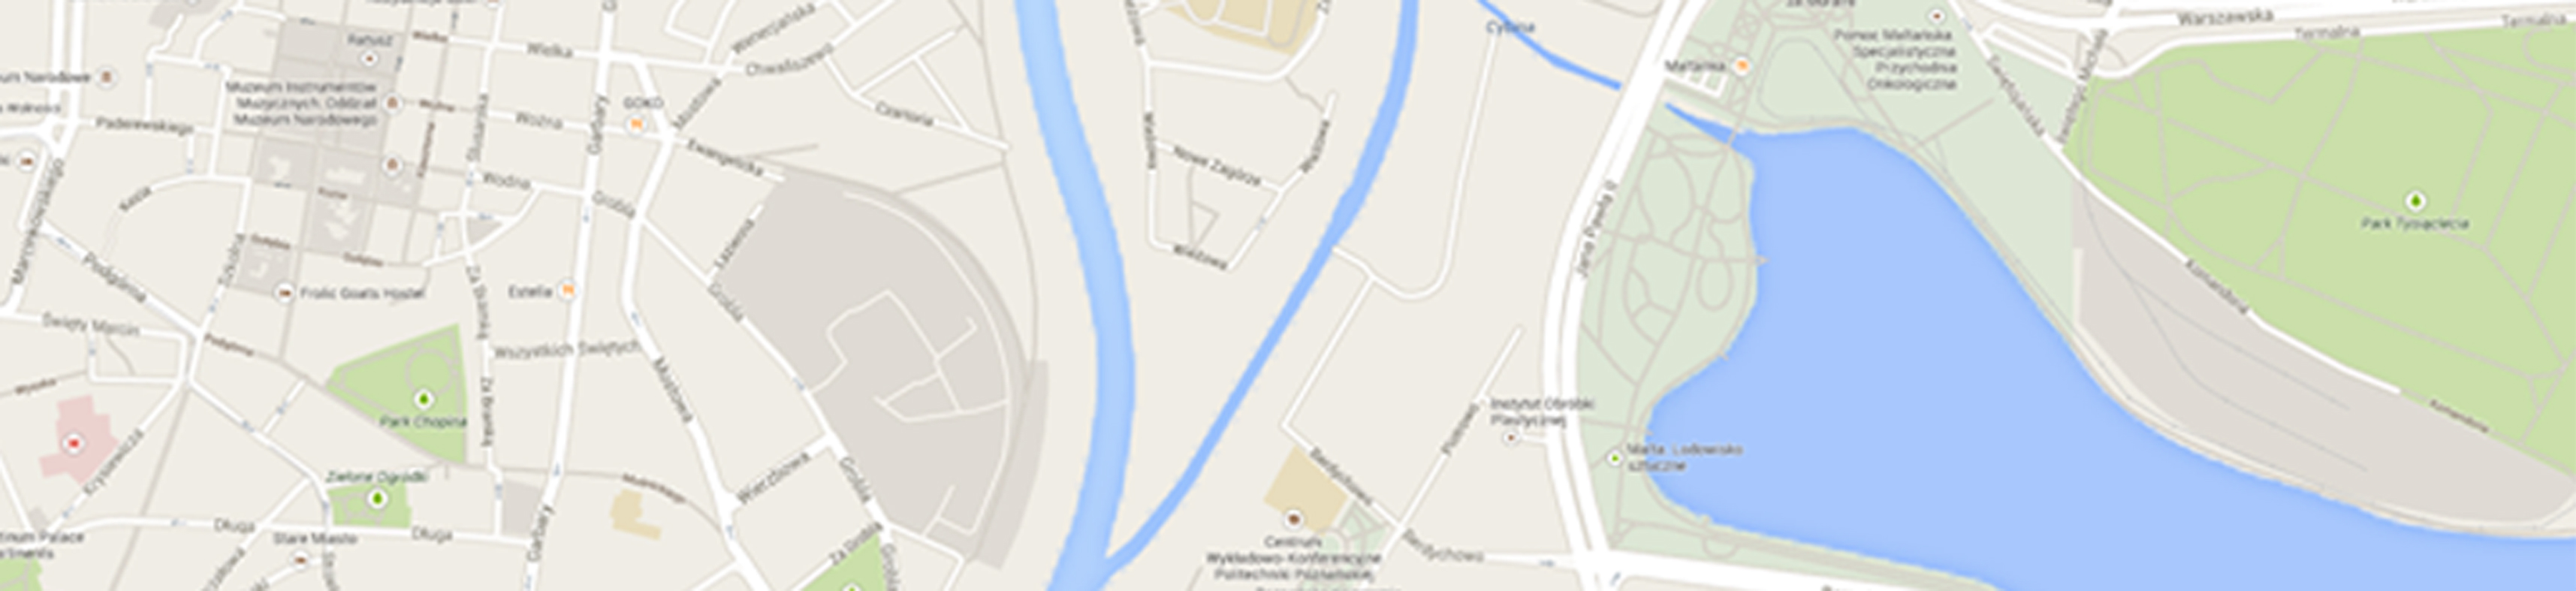
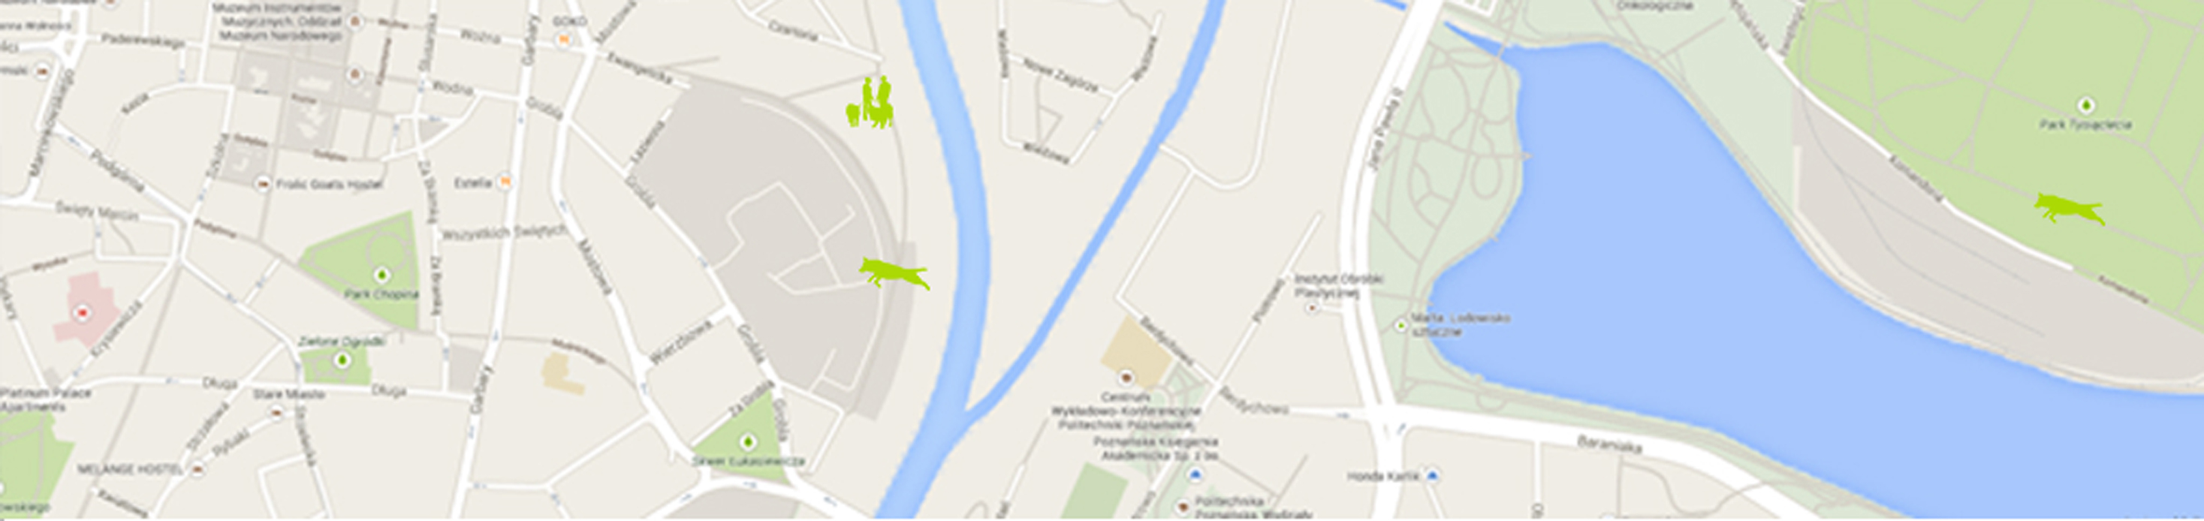
dog model add

diff --git a/app/assets/stylesheets/devise/registrations/new.css b/app/assets/stylesheets/devise/registrations/new.css
@@ -3,7 +3,7 @@ div {
 	color: white;
 }
 div.registration-form {
-	height: 330px;
+	height: 360px;
 	width: 500px;
 	background-color: #ACD907;
 	margin: auto;
@@ -93,4 +93,4 @@ div.registration-form {
 	background-color:#dfdfdf;
 }.form-button:active {
 	position:relative;
-	top:1px;
+	top:1px;}

diff --git a/app/assets/stylesheets/devise/sessions/new.css b/app/assets/stylesheets/devise/sessions/new.css
@@ -3,7 +3,7 @@ div {
 	color: white;
 }
 div.registration-form {
-	height: 330px;
+	height: 360px;
 	width: 500px;
 	background-color: #ACD907;
 	margin: auto;

diff --git a/app/assets/stylesheets/devise/new.css b/app/assets/stylesheets/devise/new.css
@@ -1,6 +1,6 @@
 div.registration-form {
-	height: 500px;
-	width: 400px;
+	height: 360px;
+	width: 450px;
 	background-color: green;
 }
 

diff --git a/db/schema.rb b/db/schema.rb
@@ -11,7 +11,17 @@
 #
 # It's strongly recommended that you check this file into your version control system.
 
-ActiveRecord::Schema.define(version: 20140324090055) do
+ActiveRecord::Schema.define(version: 20140325092657) do
+
+  create_table "dogs", force: true do |t|
+    t.string   "name"
+    t.string   "breed"
+    t.string   "gender"
+    t.string   "activity"
+    t.datetime "created_at"
+    t.datetime "updated_at"
+    t.integer  "user_id"
+  end
 
   create_table "users", force: true do |t|
     t.string   "email",                  default: "", null: false
@@ -26,6 +36,9 @@ ActiveRecord::Schema.define(version: 20140324090055) do
     t.string   "last_sign_in_ip"
     t.datetime "created_at"
     t.datetime "updated_at"
+    t.string   "first_name"
+    t.string   "last_name"
+    t.string   "nickname"
   end
 
   add_index "users", ["email"], name: "index_users_on_email", unique: true

diff --git a/app/models/user.rb b/app/models/user.rb
@@ -3,4 +3,5 @@ class User < ActiveRecord::Base
   # :confirmable, :lockable, :timeoutable and :omniauthable
   devise :database_authenticatable, :registerable,
          :recoverable, :rememberable, :trackable, :validatable
+  has_many :dogs
 end

diff --git a/db/migrate/20140325084921_create_dogs.rb b/db/migrate/20140325084921_create_dogs.rb
@@ -1,0 +1,12 @@
+class CreateDogs < ActiveRecord::Migration
+  def change
+    create_table :dogs do |t|
+      t.string :name
+      t.string :breed
+      t.string :gender
+      t.string :activity
+
+      t.timestamps
+    end
+  end
+end

diff --git a/db/migrate/20140325085856_add_details_to_users.rb b/db/migrate/20140325085856_add_details_to_users.rb
@@ -1,0 +1,7 @@
+class AddDetailsToUsers < ActiveRecord::Migration
+  def change
+    add_column :users, :first_name, :string
+    add_column :users, :last_name, :string
+    add_column :users, :nickname, :string
+  end
+end

diff --git a/test/models/dog_test.rb b/test/models/dog_test.rb
@@ -1,0 +1,7 @@
+require 'test_helper'
+
+class DogTest < ActiveSupport::TestCase
+  # test "the truth" do
+  #   assert true
+  # end
+end

diff --git a/db/migrate/20140325092657_add_user_id_to_dog.rb b/db/migrate/20140325092657_add_user_id_to_dog.rb
@@ -1,0 +1,5 @@
+class AddUserIdToDog < ActiveRecord::Migration
+  def change
+    add_column :dogs, :user_id, :integer
+  end
+end

diff --git a/app/models/dog.rb b/app/models/dog.rb
@@ -1,0 +1,3 @@
+class Dog < ActiveRecord::Base
+  belongs_to :user
+end
